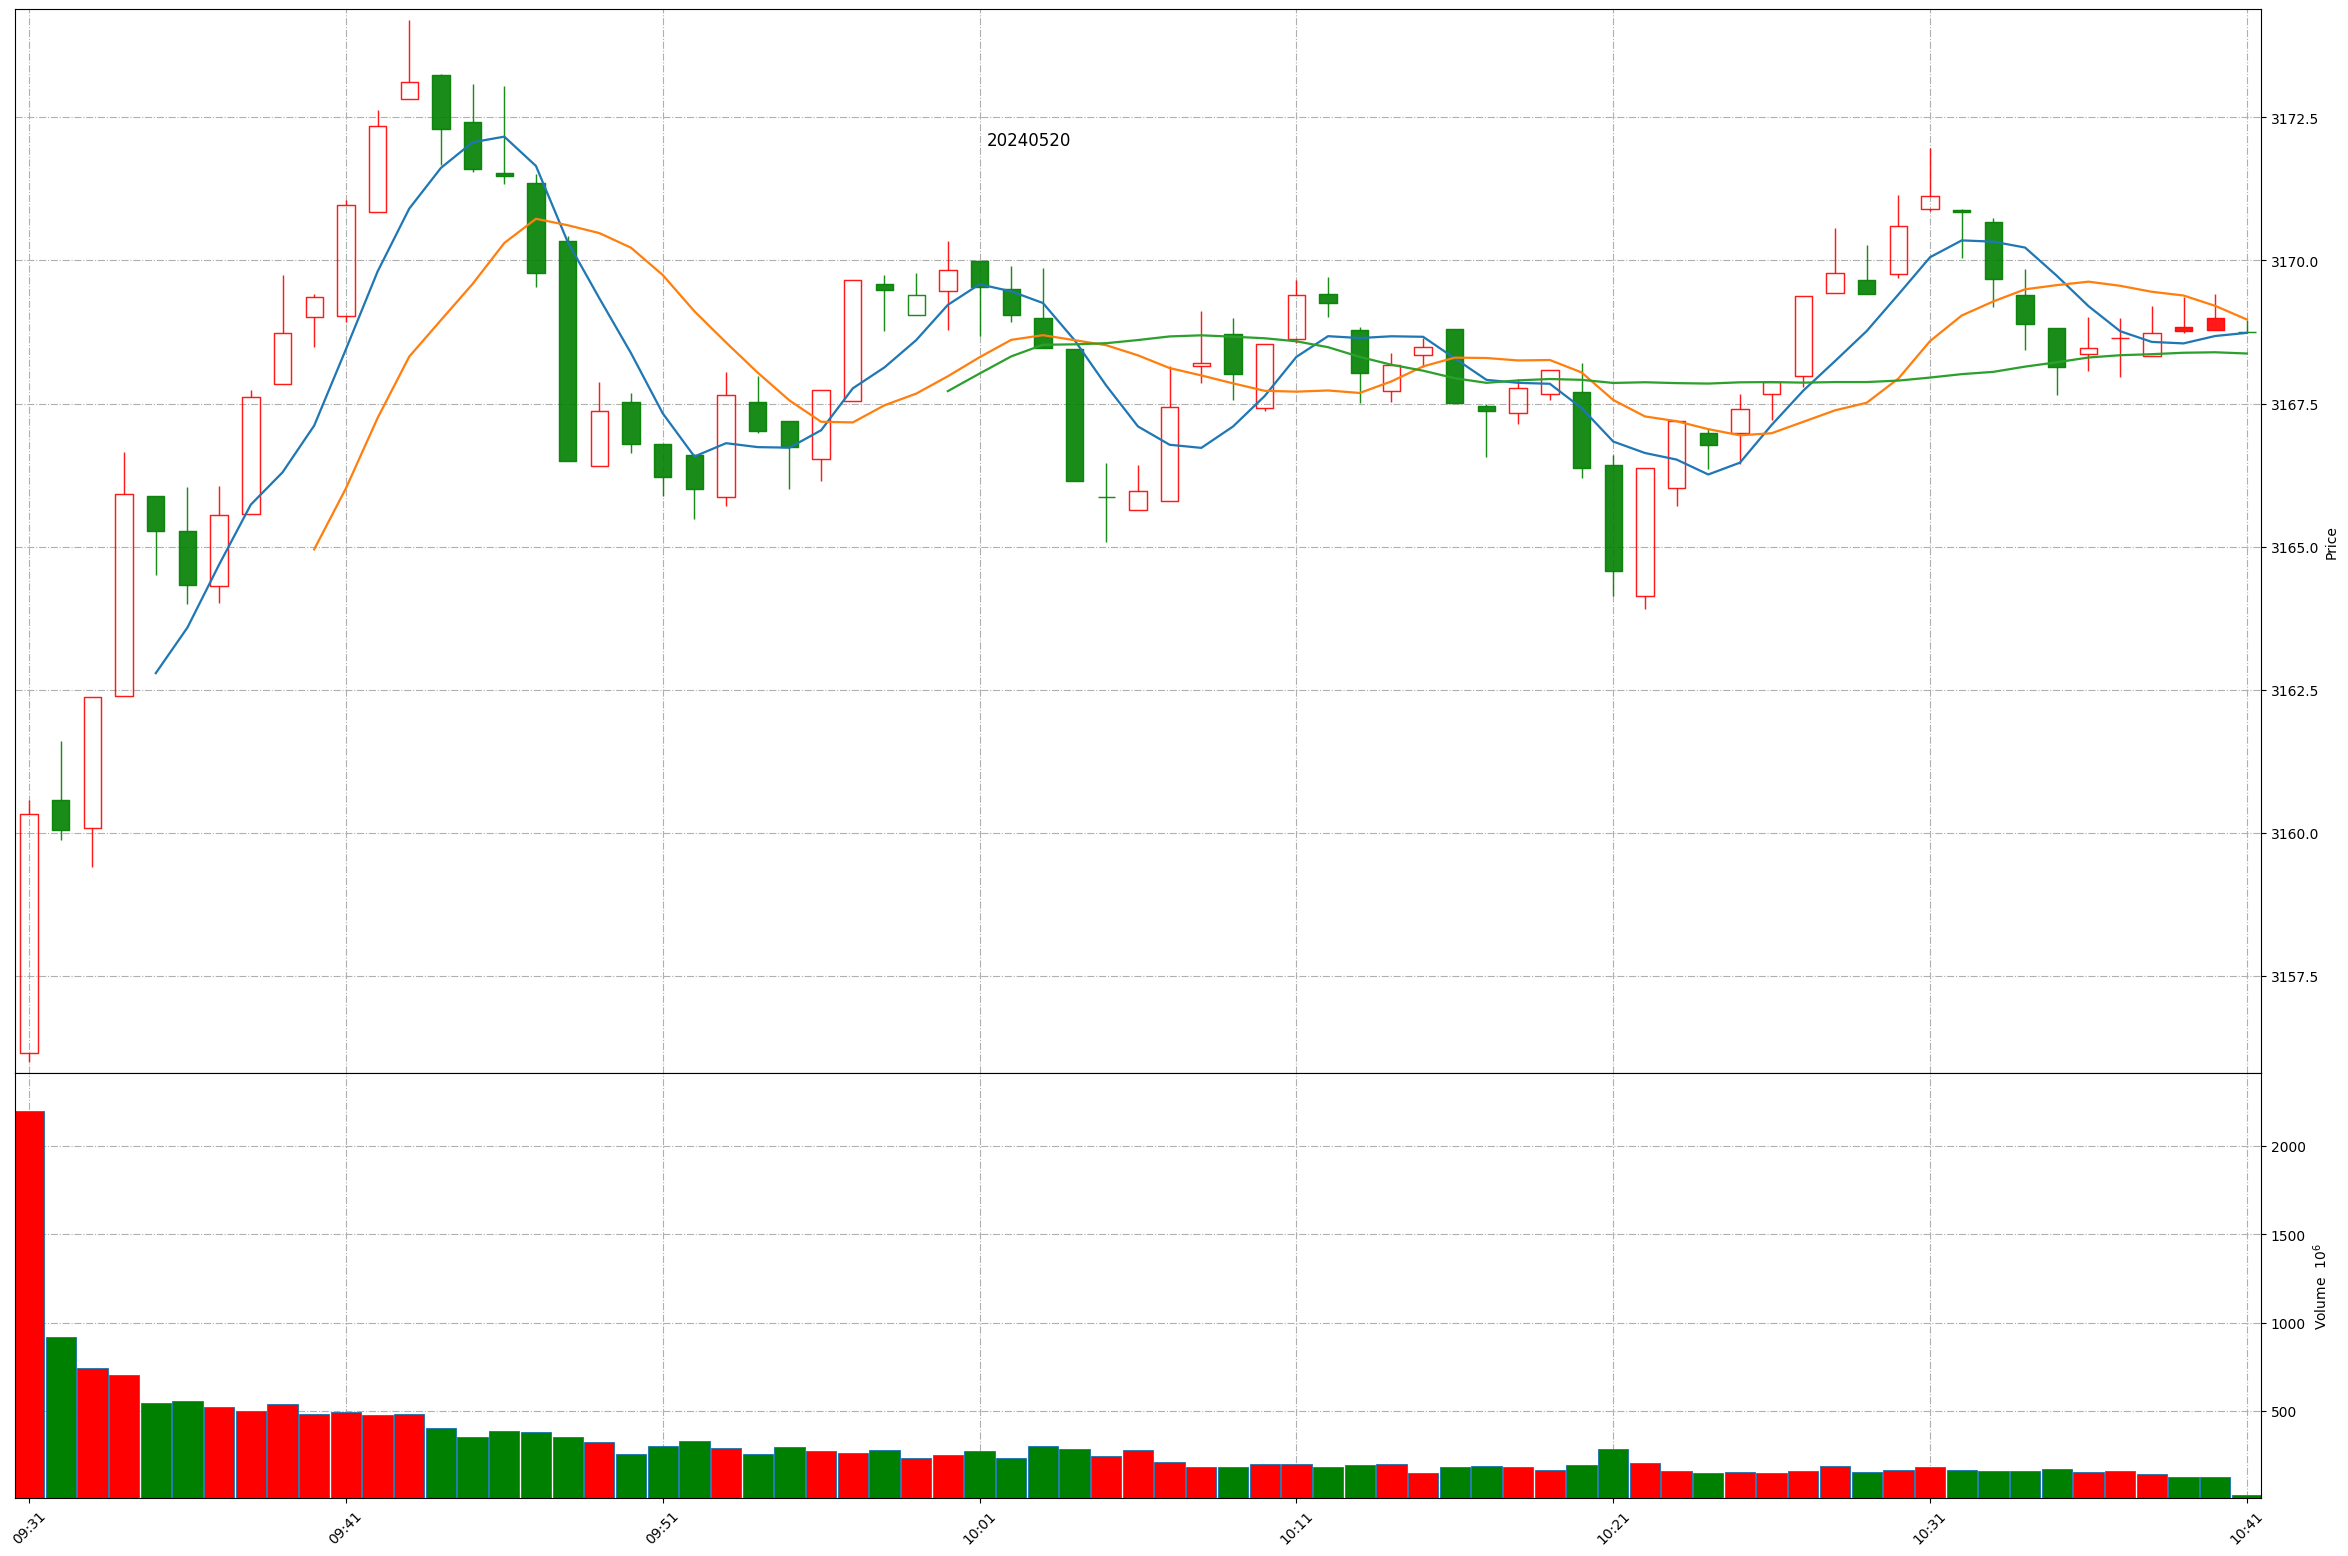
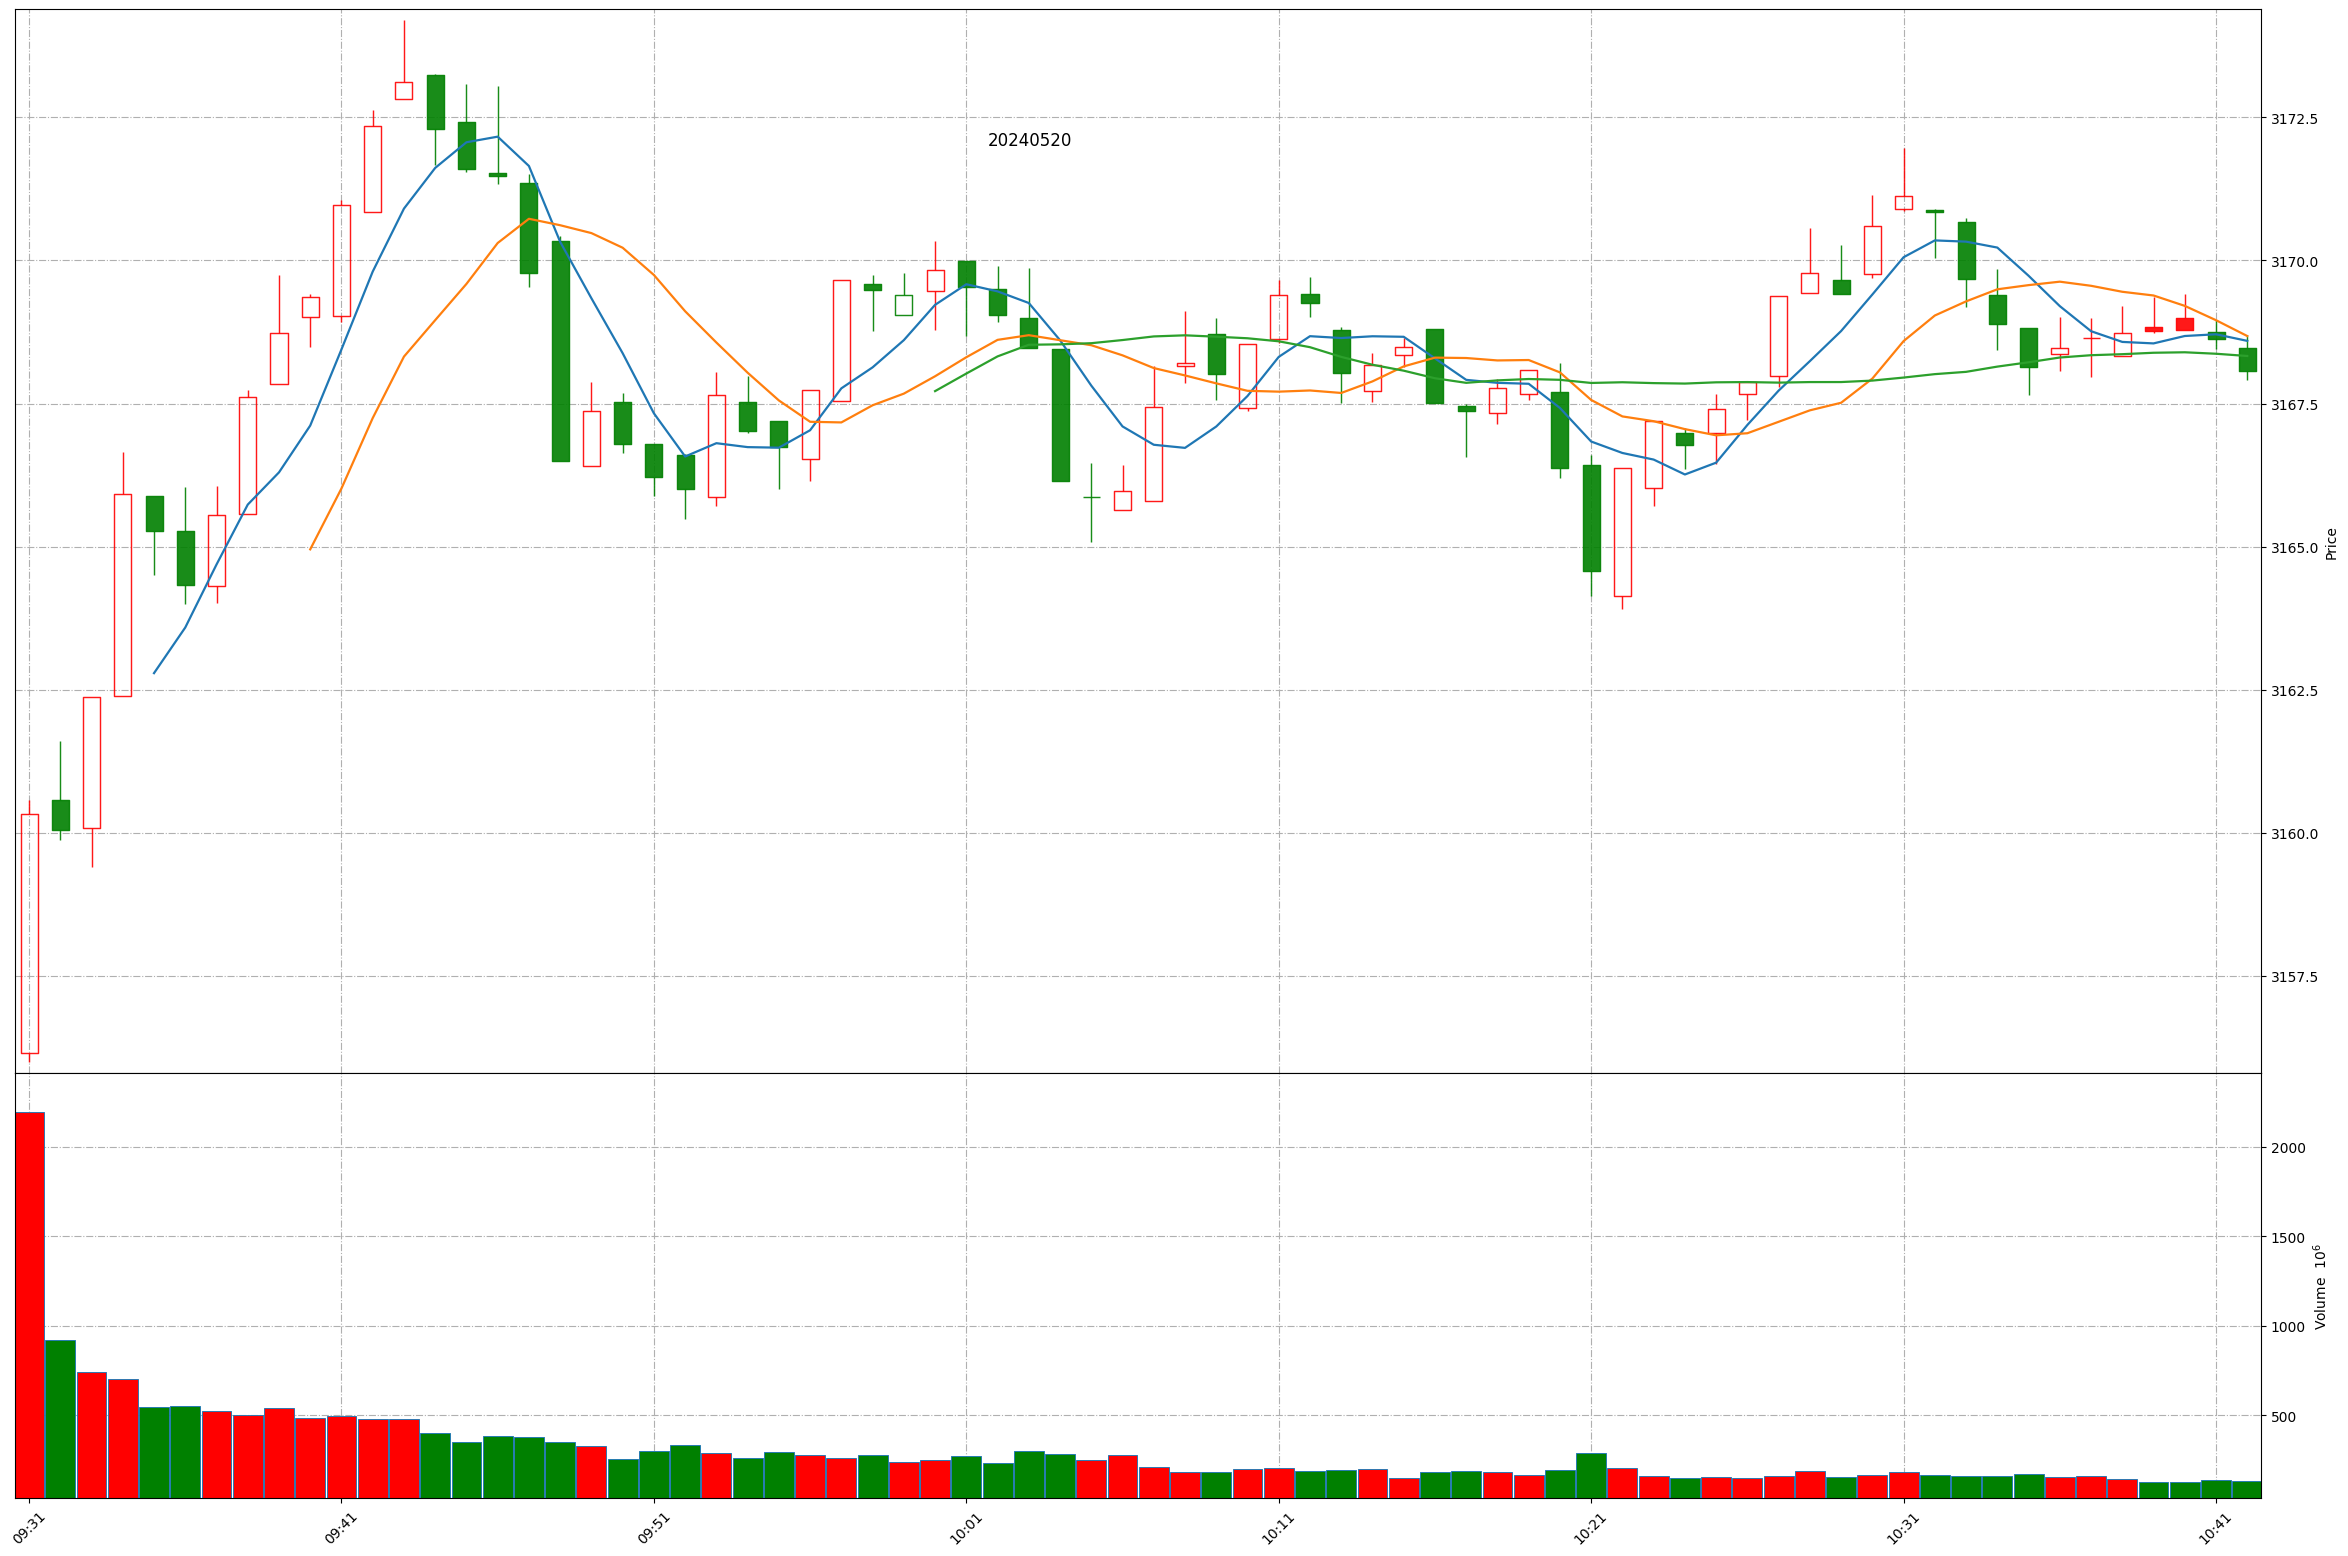
Github action update at 2024-05-20 10:42:15.

Changed region(s): [[0.0311, 0.0308, 0.9638, 0.5244], [0.0311, 0.8638, 0.9638, 0.9871]]

diff --git a/README.md b/README.md
@@ -1,11 +1,11 @@
 
 # Daily-A-share-market-quotes 每日 A 股指数（5min 更新）- 20240520
 
-### 上证指数 20240520 10:40
+### 上证指数 20240520 10:42
 ![](./fig/2024/5/20240520-sh000001.png)
 
-### 深证成指 20240520 10:40
+### 深证成指 20240520 10:42
 ![](./fig/2024/5/20240520-sz399001.png)
 
-### 北证50 20240520 10:40
+### 北证50 20240520 10:42
 ![](./fig/2024/5/20240520-bj899050.png)
